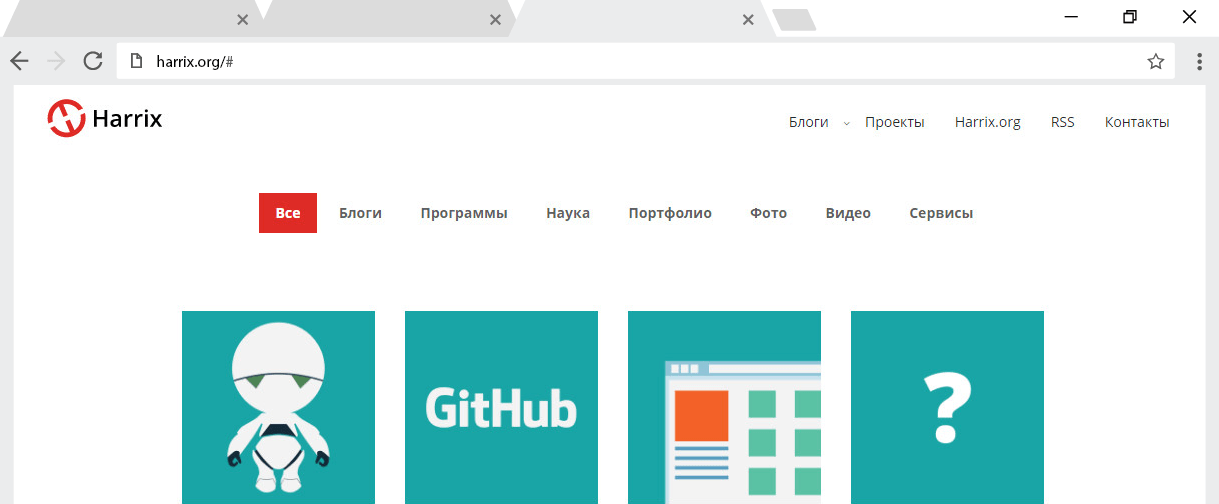
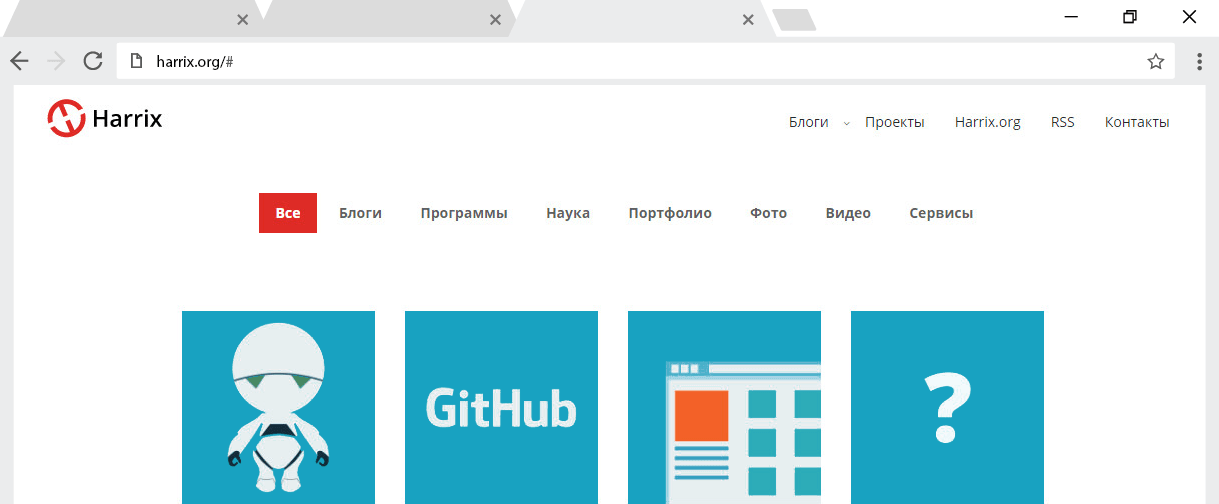
Modify teal color

Changed region(s): [[0.1247, 0.5952, 0.8728, 1.0]]

diff --git a/src/scss/style.scss b/src/scss/style.scss
@@ -1,7 +1,7 @@
 @import "~bulma/sass/utilities/initial-variables";
 @import "~bulma/sass/utilities/functions";
 
-$h-teal : #19a5a5;
+$h-teal : #18a2c1;
 $h-github : #24292e;
 $h-teal-invert : findColorInvert($h-teal);
 $h-github-invert : findColorInvert($h-github);
